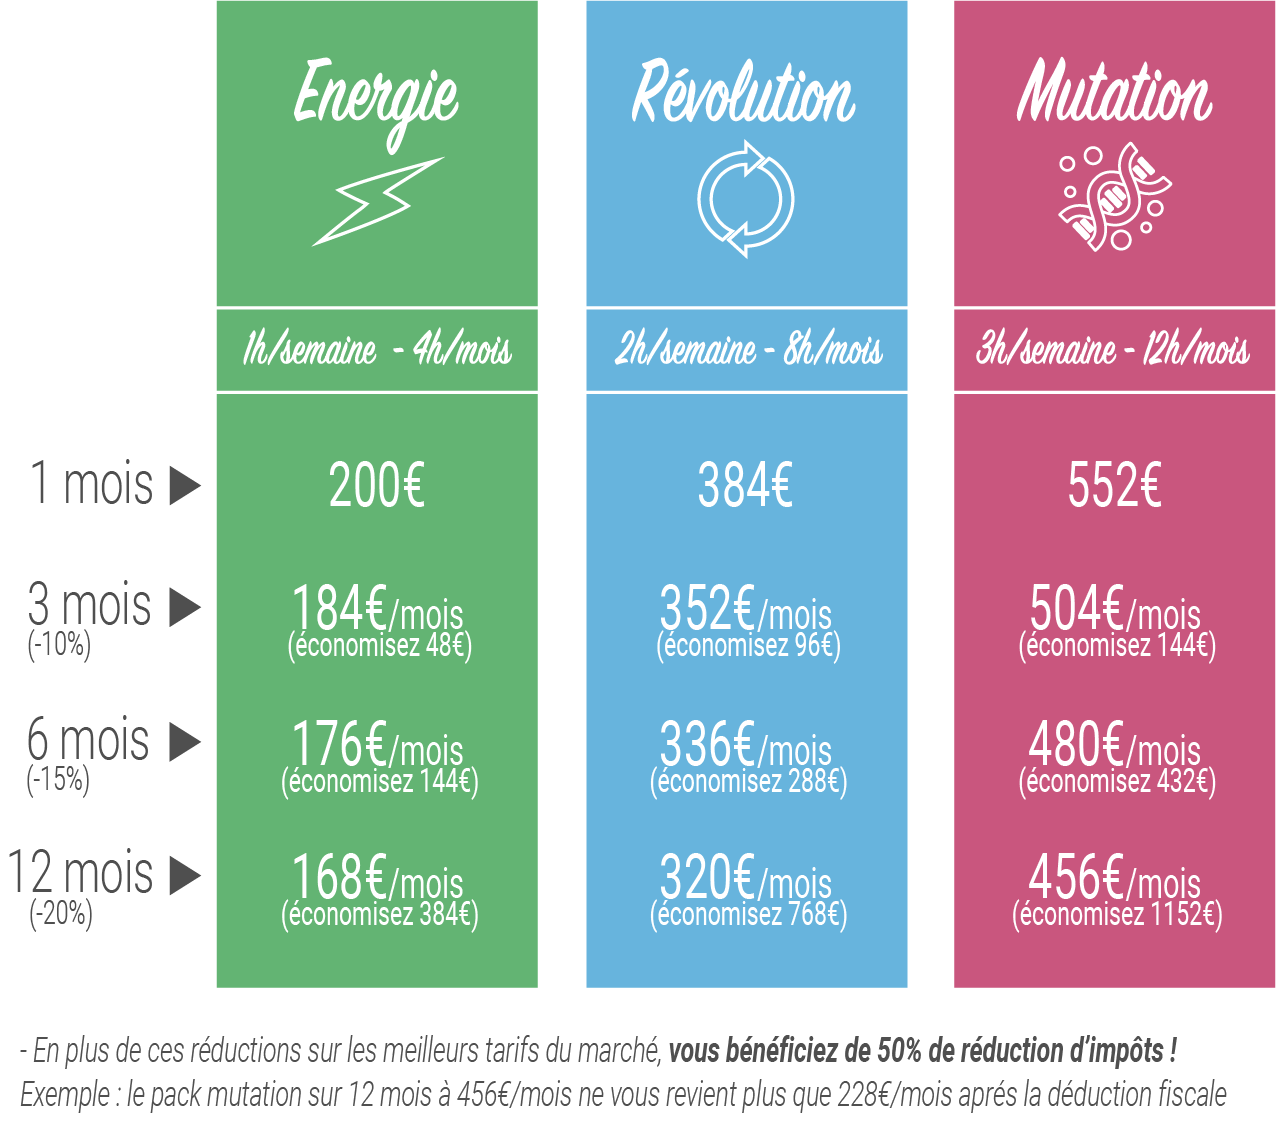
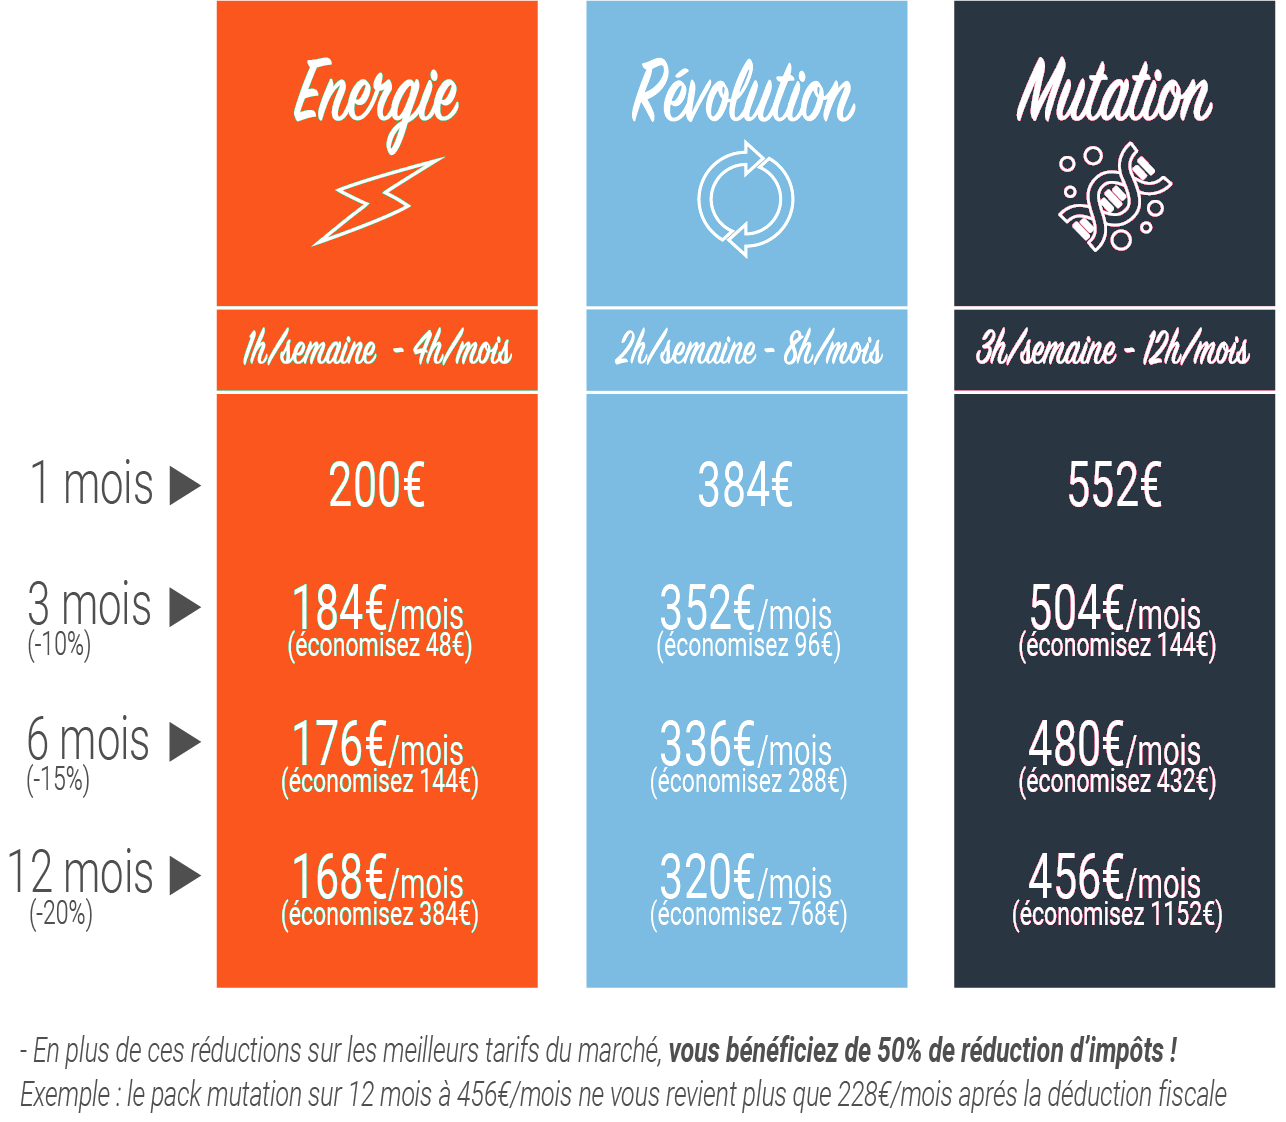
adjusting colors to respect the rules

diff --git a/index.html b/index.html
@@ -25,8 +25,8 @@
   <![endif]-->
 
   <header>
-    <nav class="navbar navbar-expand-lg navbar-dark bg-dark">
-      <i class="fas fa-dumbbell text-primary"></i>
+    <nav class="navbar navbar-expand-lg navbar-dark py-3">
+      <i class="fas fa-dumbbell"></i>
       <a class="navbar-brand ml-3" href="#">Coach Taylor</a>
       <button class="navbar-toggler" type="button" data-toggle="collapse" data-target="#navbarSupportedContent" aria-controls="navbarSupportedContent" aria-expanded="false" aria-label="Toggle navigation">
         <span class="navbar-toggler-icon"></span>
@@ -35,7 +35,7 @@
       <div class="collapse navbar-collapse" id="navbarSupportedContent">
         <ul class="navbar-nav ml-auto">
           <li class="nav-item ml-auto pr-1">
-            <a class="nav-link active" href="index.html">Home</a>
+            <a class="nav-link active" href="index.html">Accueil</a>
           </li>
           <li class="nav-item ml-auto pr-1">
             <a class="nav-link" href="info.html">Info Coach</a>
@@ -81,15 +81,15 @@
       </div>
 
 
-      <div class="col-md-6 col-sm-4 mt-5">
+      <div class="col-md-6 col-sm-4 mt-sm-2 mt-md-5">
         <img src="img/index1.jpeg" class="col-md-6 col-sm-12 img-fluid float-left mb-2 px-0 pr-md-3" alt="running outside">
         <p class="description text-justify  ">Le Lorem Ipsum est simplement du faux texte employé dans la composition et la mise en page avant impression. Le Lorem Ipsum est le faux texte standard de l'imprimerie depuis les années 1500, quand un imprimeur anonyme assembla ensemble des morceaux de texte pour réaliser un livre spécimen de polices de texte. Le Lorem Ipsum est simplement du faux texte employé dans la composition et la mise en page avant impression. Le Lorem Ipsum est le faux texte standard de l'imprimerie depuis les années 1500, quand un imprimeur anonyme assembla ensemble des morceaux de texte pour réaliser un livre spécimen de polices de texte.</p>
       </div>
-      <div class="col-md-6 col-sm-4 mt-5">
+      <div class="col-md-6 col-sm-4 mt-5 mt-sm-2 mt-md-5">
         <img src="img/index2.png" class="col-md-6 col-sm-12 img-fluid float-left mb-2 px-0 pr-md-3" alt="exercise outside">
         <p class="description text-justify  ">Le Lorem Ipsum est simplement du faux texte employé dans la composition et la mise en page avant impression. Le Lorem Ipsum est le faux texte standard de l'imprimerie depuis les années 1500, quand un imprimeur anonyme assembla ensemble des morceaux de texte pour réaliser un livre spécimen de polices de texte. Le Lorem Ipsum est simplement du faux texte employé dans la composition et la mise en page avant impression. Le Lorem Ipsum est le faux texte standard de l'imprimerie depuis les années 1500.</p>
       </div>
-      <div class="col-md-6 col-sm-4 mt-5">
+      <div class="col-md-6 col-sm-4 mt-5 mt-sm-2 mt-md-5">
         <img src="img/index3.jpeg" class="col-md-6 col-sm-12 img-fluid float-left mb-2 px-0 pr-md-3" alt="exercise inside">
         <p class="description text-justify  ">Le Lorem Ipsum est simplement du faux texte employé dans la composition et la mise en page avant impression. Le Lorem Ipsum est le faux texte standard de l'imprimerie depuis les années 1500, quand un imprimeur anonyme assembla ensemble des morceaux de texte pour réaliser un livre spécimen de polices de texte. Le Lorem Ipsum est simplement du faux texte employé dans la composition et la mise en page avant impression. Le Lorem Ipsum est le faux texte standard de l'imprimerie depuis les années 1500, quand un imprimeur anonyme assembla ensemble des morceaux de texte pour réaliser un livre spécimen de polices de texte.</p>
       </div>
@@ -98,11 +98,11 @@
 </div>
 <!-- end of container -->
 
-<footer class="bg-dark py-4 m-0">
+<footer class=" py-4 m-0">
   <ul class="d-block text-center my-auto pl-0">
-    <li class="d-inline-block mx-2"><a href="#" class="text-danger"><i class="fab fa-instagram fa-2x"></i></a></li>
-    <li class="d-inline-block mx-2"><a href="#" class="text-danger"><i class="fab fa-twitter fa-2x"></i></a></li>
-    <li class="d-inline-block mx-2"><a href="#" class="text-danger"><i class="fab fa-pinterest-p fa-2x"></i></a></li>
+    <li class="d-inline-block mx-2"><a href="#"><i class="fab fa-instagram fa-2x"></i></a></li>
+    <li class="d-inline-block mx-2"><a href="#"><i class="fab fa-twitter fa-2x"></i></a></li>
+    <li class="d-inline-block mx-2"><a href="#"><i class="fab fa-pinterest-p fa-2x"></i></a></li>
   </ul>
 </footer>
 

diff --git a/info.html b/info.html
@@ -19,14 +19,14 @@
   <link rel="stylesheet" href="css/main.css">
 </head>
 
-<body class="bg-light">
+<body class="bg-light body_info">
   <!--[if lte IE 9]>
     <p class="browserupgrade">You are using an <strong>outdated</strong> browser. Please <a href="https://browsehappy.com/">upgrade your browser</a> to improve your experience and security.</p>
   <![endif]-->
 
   <header>
-    <nav class="navbar navbar-expand-lg navbar-dark bg-dark">
-      <i class="fas fa-dumbbell text-primary"></i>
+    <nav class="navbar navbar-expand-lg navbar-dark py-3">
+      <i class="fas fa-dumbbell"></i>
       <a class="navbar-brand ml-3" href="#">Coach Taylor</a>
       <button class="navbar-toggler" type="button" data-toggle="collapse" data-target="#navbarSupportedContent" aria-controls="navbarSupportedContent" aria-expanded="false" aria-label="Toggle navigation">
         <span class="navbar-toggler-icon"></span>
@@ -35,7 +35,7 @@
       <div class="collapse navbar-collapse" id="navbarSupportedContent">
         <ul class="navbar-nav ml-auto">
           <li class="nav-item ml-auto">
-            <a class="nav-link" href="index.html">Home</a>
+            <a class="nav-link" href="index.html">Accueil</a>
           </li>
           <li class="nav-item ml-auto">
             <a class="nav-link active" href="info.html">Info Coach</a>
@@ -44,6 +44,7 @@
             <a class="nav-link" href="tarif.html">Tarifs</a>
           </li>
           <li class="nav-item ml-auto">
+
             <a class="nav-link" href="contact.html">Contact</a>
           </li>
         </ul>
@@ -51,20 +52,20 @@
     </nav>
   </header>
 
-  <h2 class="text-center p-5">Personal trainer Lesquin, cours sur mesure</h2>
+  <h3 class="text-center p-5 mt-5">Personal trainer Lesquin, cours sur mesure</h2>
 
-  <div class="container-fluid">
-    <div class="row">
+  <div class="container-fluid info_container">
+    <div class="row my-auto">
       <div class="col-md-4 col-sm-6 px-5">
         <img src="img/coach.png" class="img-fluid rounded-circle w-75 d-block mx-auto" alt="photo coach Taylor">
         <h3 class="text-center py-3">Eric</h3>
         <p class="text-center mb-4">Lesquin - Lille</p>
-        <a class="btn btn-outline-primary d-block mb-5" href="#" role="button" data-toggle="button" aria-pressed="false" autocomplete="off">Mes tarifs ?</a>
+        <a class="btn d-block mb-5 bouton" href="tarif.html" role="button" data-toggle="button" aria-pressed="false" autocomplete="off">Mes tarifs ?</a>
       </div>
       <div class="col-md-4 col-sm-6 px-5 pb-5">
         <img src="img/formation.png" class="img-fluid w-50 d-block mx-auto" alt="photo coach Taylor">
         <h3 class="text-center py-3">Formation</h3>
-        <ul class="text-center p-0 list-unstyled">
+        <ul class="text-center p-0 list-unstyled ulcolor">
           <li class="py-1">License STAPS</li>
           <li class="py-1">CQP</li>
           <li class="py-1">BAFA</li>
@@ -81,7 +82,7 @@
           </div>
 
           <div class="col-md-12 col-sm-7">
-            <ul class="text-center p-0 list-unstyled">
+            <ul class="text-center p-0 list-unstyled ulcolor">
               <li class="py-1">Préparateur physique</li>
               <li class="py-1">Coaching en Entreprise</li>
               <li class="py-1">Sapeur Pompier volontaire</li>
@@ -98,11 +99,11 @@
   </div>
   <!-- end of container -->
 
-  <footer class="bg-dark py-4 m-0">
+  <footer class=" py-4 m-0">
     <ul class="d-block text-center my-auto pl-0">
-      <li class="d-inline-block mx-2"><a href="#" class="text-danger"><i class="fab fa-instagram fa-2x"></i></a></li>
-      <li class="d-inline-block mx-2"><a href="#" class="text-danger"><i class="fab fa-twitter fa-2x"></i></a></li>
-      <li class="d-inline-block mx-2"><a href="#" class="text-danger"><i class="fab fa-pinterest-p fa-2x"></i></a></li>
+      <li class="d-inline-block mx-2"><a href="#"><i class="fab fa-instagram fa-2x"></i></a></li>
+      <li class="d-inline-block mx-2"><a href="#"><i class="fab fa-twitter fa-2x"></i></a></li>
+      <li class="d-inline-block mx-2"><a href="#"><i class="fab fa-pinterest-p fa-2x"></i></a></li>
     </ul>
   </footer>
 

diff --git a/contact.html b/contact.html
@@ -24,8 +24,8 @@
     <p class="browserupgrade">You are using an <strong>outdated</strong> browser. Please <a href="https://browsehappy.com/">upgrade your browser</a> to improve your experience and security.</p>
   <![endif]-->
   <header>
-    <nav class="navbar navbar-expand-lg navbar-dark bg-dark">
-      <i class="fas fa-dumbbell text-primary"></i>
+    <nav class="navbar navbar-expand-lg navbar-dark py-3">
+      <i class="fas fa-dumbbell"></i>
       <a class="navbar-brand ml-3" href="#">Coach Taylor</a>
       <button class="navbar-toggler" type="button" data-toggle="collapse" data-target="#navbarSupportedContent" aria-controls="navbarSupportedContent" aria-expanded="false" aria-label="Toggle navigation">
         <span class="navbar-toggler-icon"></span>
@@ -34,7 +34,7 @@
       <div class="collapse navbar-collapse" id="navbarSupportedContent">
         <ul class="navbar-nav ml-auto">
           <li class="nav-item ml-auto">
-            <a class="nav-link" href="index.html">Home</a>
+            <a class="nav-link" href="index.html">Accueil</a>
           </li>
           <li class="nav-item ml-auto">
             <a class="nav-link" href="info.html">Info Coach</a>
@@ -43,6 +43,7 @@
             <a class="nav-link" href="tarif.html">Tarifs</a>
           </li>
           <li class="nav-item ml-auto">
+
             <a class="nav-link active" href="contact.html">Contact</a>
           </li>
         </ul>
@@ -58,7 +59,7 @@
 
           <div class="row">
 
-            <div class="col-sm-6">
+            <div class="col-sm-6 pt-4">
               <label for="examplename">Nom</label>
               <input type="text" class="form-control" id="examplename">
             </div>
@@ -85,7 +86,7 @@
 
       </div>
       <div class="col-sm-6">
-        <iframe src="https://calendar.google.com/calendar/embed?height=400&amp;wkst=1&amp;bgcolor=%23ffffff&amp;src=fr.french%23holiday%40group.v.calendar.google.com&amp;color=%23125A12&amp;ctz=Europe%2FParis" class="d-block mx-auto py-5" style="border-width:0" width="100%" height="500" frameborder="0" scrolling="no"></iframe>
+        <iframe src="https://calendar.google.com/calendar/embed?showPrint=0&amp;showTabs=0&amp;showCalendars=0&amp;height=500&amp;wkst=1&amp;bgcolor=%23ffffff&amp;src=ff25ai8bpl59peok8ktk11kr0g%40group.calendar.google.com&amp;color=%236B3304&amp;ctz=Europe%2FParis" style="border-width:0" width="100%" height="500" frameborder="0" scrolling="no" class="d-block mx-auto py-5"></iframe>
       </div>
       <div class="col-sm-6 py-5">
         <h2 class="text-md-right  text-center pr-md-5">Adresse</h2>
@@ -107,11 +108,11 @@
     </div>
   </div>
 
-  <footer class="bg-dark py-4 m-0">
+  <footer class=" py-4 m-0">
     <ul class="d-block text-center my-auto pl-0">
-      <li class="d-inline-block mx-2"><a href="#" class="text-danger"><i class="fab fa-instagram fa-2x"></i></a></li>
-      <li class="d-inline-block mx-2"><a href="#" class="text-danger"><i class="fab fa-twitter fa-2x"></i></a></li>
-      <li class="d-inline-block mx-2"><a href="#" class="text-danger"><i class="fab fa-pinterest-p fa-2x"></i></a></li>
+      <li class="d-inline-block mx-2"><a href="#"><i class="fab fa-instagram fa-2x"></i></a></li>
+      <li class="d-inline-block mx-2"><a href="#"><i class="fab fa-twitter fa-2x"></i></a></li>
+      <li class="d-inline-block mx-2"><a href="#"><i class="fab fa-pinterest-p fa-2x"></i></a></li>
     </ul>
   </footer>
 

diff --git a/tarif.html b/tarif.html
@@ -25,8 +25,8 @@
   <![endif]-->
 
   <header>
-    <nav class="navbar navbar-expand-lg navbar-dark bg-dark">
-      <i class="fas fa-dumbbell text-primary"></i>
+    <nav class="navbar navbar-expand-lg navbar-dark py-3">
+      <i class="fas fa-dumbbell"></i>
       <a class="navbar-brand ml-3" href="#">Coach Taylor</a>
       <button class="navbar-toggler" type="button" data-toggle="collapse" data-target="#navbarSupportedContent" aria-controls="navbarSupportedContent" aria-expanded="false" aria-label="Toggle navigation">
         <span class="navbar-toggler-icon"></span>
@@ -35,7 +35,7 @@
       <div class="collapse navbar-collapse" id="navbarSupportedContent">
         <ul class="navbar-nav ml-auto">
           <li class="nav-item ml-auto">
-            <a class="nav-link" href="index.html">Home</a>
+            <a class="nav-link" href="index.html">Accueil</a>
           </li>
           <li class="nav-item ml-auto">
             <a class="nav-link" href="info.html">Info Coach</a>
@@ -53,12 +53,12 @@
 
   <h2 class="text-center p-5">Tarifs</h2>
 
-  <div class="container mb-5">
+  <div class="container-fluid mb-5">
     <div class="row">
-      <div class=" offset-sm-1 col-md-4 col-sm-5">
-        <table class="table">
+      <div class="offset-md-0 col-md-6 offset-sm-1 col-sm-5 d-block my-auto">
+        <table class="table w-100">
           <caption>*uniquement pour la première heure de découverte</caption>
-          <thead class="thead-dark">
+          <thead class="thead thcolor">
             <tr>
               <th scope="col">Nombre d'heure</th>
               <th scope="col">Prix/heure</th>
@@ -95,8 +95,8 @@
         </table>
       </div>
 
-      <div class=" offset-md-2 col-md-4 col-sm-5 d-block my-auto">
-        <img src="img/tarifs.png" class="img-fluid" alt="tarif avec abonnement">
+      <div class="col-sm-6 d-block my-auto">
+        <img src="img/tarifs.png" class="img-fluid w-100" alt="tarif avec abonnement">
       </div>
 
     </div>
@@ -104,11 +104,11 @@
   </div>
   <!-- end of container -->
 
-  <footer class="bg-dark py-4 m-0">
+  <footer class="py-4 m-0">
     <ul class="d-block text-center my-auto pl-0">
-      <li class="d-inline-block mx-2"><a href="#" class="text-danger"><i class="fab fa-instagram fa-2x"></i></a></li>
-      <li class="d-inline-block mx-2"><a href="#" class="text-danger"><i class="fab fa-twitter fa-2x"></i></a></li>
-      <li class="d-inline-block mx-2"><a href="#" class="text-danger"><i class="fab fa-pinterest-p fa-2x"></i></a></li>
+      <li class="d-inline-block mx-2"><a href="#"><i class="fab fa-instagram fa-2x"></i></a></li>
+      <li class="d-inline-block mx-2"><a href="#"><i class="fab fa-twitter fa-2x"></i></a></li>
+      <li class="d-inline-block mx-2"><a href="#"><i class="fab fa-pinterest-p fa-2x"></i></a></li>
     </ul>
   </footer>
 

diff --git a/css/main.css b/css/main.css
@@ -96,7 +96,55 @@ textarea {
 /* ==========================================================================
    Author's custom styles
    ========================================================================== */
+header{
+  border-bottom:3px solid #fc561f;
+}
+header i {
+  color:#7cbce2;
+}
 
+header nav, footer{
+  background-color: #293540;
+}
+.thcolor{
+  background-color: #293540;
+  color:#ffffff;
+}
+
+.bouton{
+  border:1px solid #7cbce2;
+  background-color: #fff;
+}
+
+.bouton:hover{
+  background-color: #7cbce2;
+  color:#fff;
+}
+
+h2,
+h3,
+p,
+.ulcolor a
+ {
+  color:#293540;
+}
+
+footer{
+  border-top:3px solid #fc561f;
+}
+footer li a{
+  color:#e1ebf5;
+}
+
+footer li a:hover{
+  color:#fc561f;
+}
+
+.info_container{
+  max-width:1200px;
+
+  padding:5% 0;
+}
 
 
 
